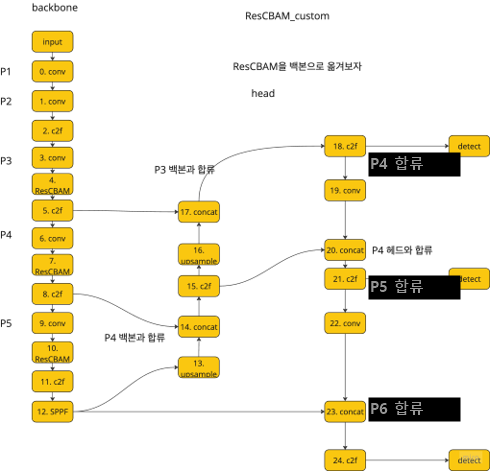
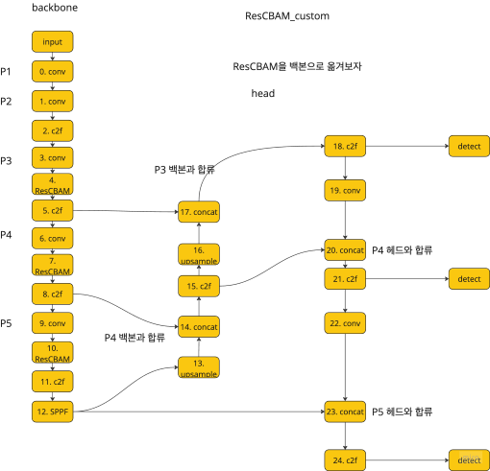
Refine mobile optimization captions

Changed region(s): [[0.7347, 0.5648, 0.949, 0.6539], [0.7347, 0.8323, 0.949, 0.9214], [0.7347, 0.2972, 0.949, 0.3864]]

diff --git a/_portfolio/2-mobile-optimization.md b/_portfolio/2-mobile-optimization.md
@@ -32,12 +32,12 @@ Unity 기반 모바일 환경에서 객체 인식 기능을 개선하기 위해 
 - YOLOv8n 적용을 검토하는 과정에서 화면 끊김이 발생했고, 원인이 모델 크기인지 파이프라인 구조인지 분리해서 확인할 필요가 있었습니다.
 
 ![모델 구조 검토 이미지](/images/아키텍처.png)
-*구조 검토 이미지*
+*실험적으로 검토한 구조*
 
 ### 결과
 
 ![단계별 시간 측정 결과](/images/notion5.png)
-*입력 크기와 모델 구성에 따른 단계별 시간 측정 결과*
+*모델별 처리 시간 비교*
 
 - YOLOv8n, YOLOv8s, YOLOv8m 비교 결과, 총 추론 시간은 **67ms, 88ms, 147ms**였지만 평균 프레임은 **40, 38, 38 FPS**로 큰 차이가 없었습니다.
 - **YOLOv8n(416)**에서는 전처리 4ms, 추론 4ms, 후처리 59ms였고, **YOLOv8n(640)**에서는 후처리가 108ms까지 증가했습니다.
